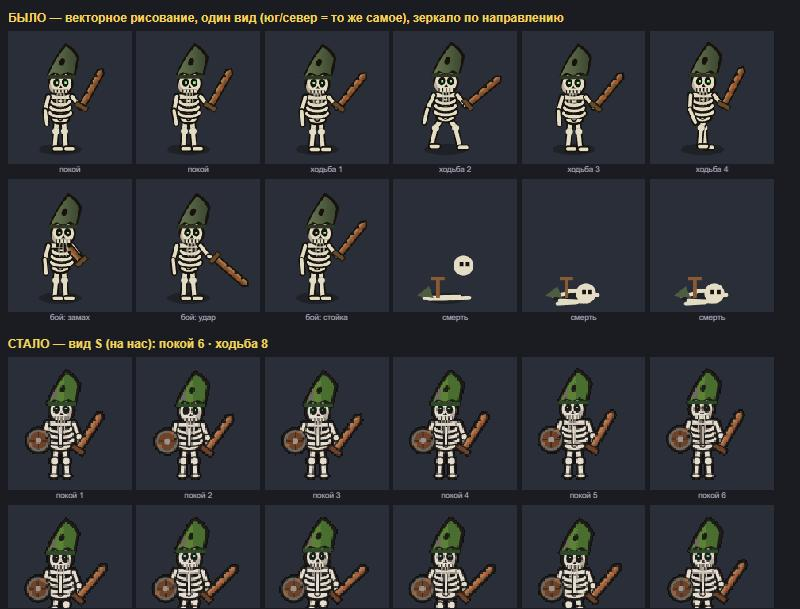
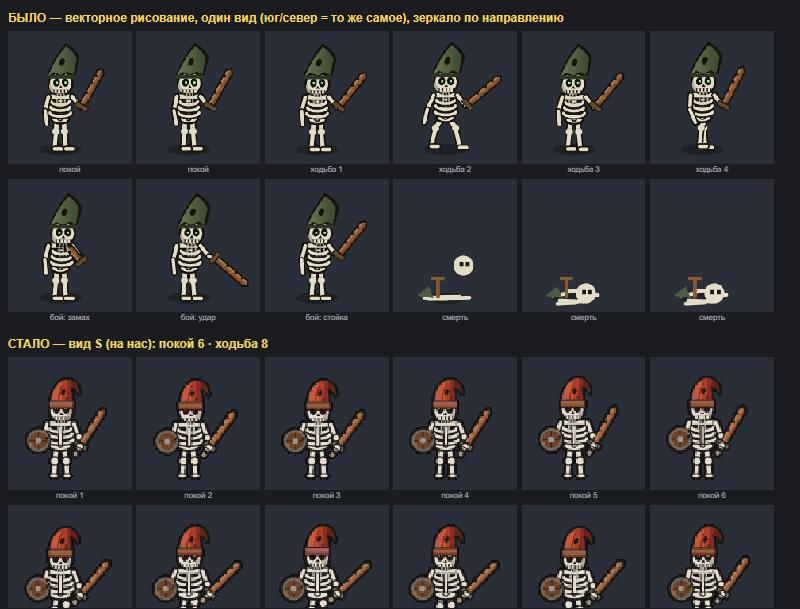
Скелеты: колпаки того же кроя, что у гномов; рукоять меча в ладони

diff --git a/js/world/skelart.js b/js/world/skelart.js
@@ -1,7 +1,7 @@
 'use strict';
 // Пиксель-арт скелетов: те же 4 вида (юг, восток, север; запад — зеркало), та же сверхвыборка и конвейер toPixelArt, что у гномов.
 // Кадры: покой 6, ходьба 8, атака 9, удар по нему 4, смерть 9, захват 9 + шаг с ношей 4 (КАДРЫ.md).
-// Кадры строятся лениво и лежат в кэше с вытеснением; внешность — 2 бита (цвет колпака, щит), считаются из дома скелета (ключи, не в сейве).
+// Кадры строятся лениво и лежат в кэше с вытеснением; внешность — 2 бита (цвет колпака (рыжий, охра), щит), считаются из дома скелета (ключи, не в сейве).
 // Рисует drawSkeleton (skeletons.js вызывает skelDraw отсюда); без этого файла остаётся старое векторное рисование.
 
 const SKA = { PS: 6, PART: 2, W: 52, H: 56, AX: 22, AY: 50, FR: { idle: 6, walk: 8, atk: 9, hit: 4, die: 9, grab: 13 }, ATK_DUR: 0.72, HIT_DUR: 0.2, DIE_DUR: 0.9, MAX: 700 };
@@ -9,7 +9,7 @@ const SKA = { PS: 6, PART: 2, W: 52, H: 56, AX: 22, AY: 50, FR: { idle: 6, walk:
 const SKA_C = {
   bone: '#e4ddd2', bone2: '#b6ada0', bone3: '#867e74', ink: '#1e1b19', flash: '#f6f2ea',
   rust: ['#c8946a', '#a06840', '#6e432a'], iron: ['#9e958a', '#706960', '#4a4540'], wood: ['#875434', '#6e432a', '#45291a'],
-  hat: [['#6c7a54', '#4a6e30', '#2f4a26'], ['#7a6a5a', '#583522', '#341f14']], eye: '#6fe0b4', eyeDim: '#2f8a6a',
+  hat: ['#b0463a', '#a08a3c'],             // выцветшие колпаки того же кроя, что у живых гномов: рыжий кирпич и охра eye: '#6fe0b4', eyeDim: '#2f8a6a',
 };
 const SKA_CACHE = new Map();
 let SKA_SCRATCH = null;
@@ -169,18 +169,64 @@ function skelPaint(c, look, view, pose, frame) {
   return eyes;
 }
 
+// колпак того же кроя, что у гномов (capShape в people.js): мягкий конус с кончиком набок, толстый подвёрнутый край, складки;
+// у скелета выцвел, с дырой и обтрёпанным краем
+function skelCapPath(c, hx, b, s, tall, alt) {
+  const X = k => hx + k * s;
+  c.beginPath(); c.moveTo(X(-4.3), b);
+  if (alt) {
+    c.quadraticCurveTo(X(-4.4), b - tall * 0.95, X(0.6), b - tall);
+    c.quadraticCurveTo(X(3.8), b - tall * 1.05, X(4.4), b - tall * 0.62);
+    c.quadraticCurveTo(X(3.2), b - tall * 0.7, X(3.3), b - tall * 0.45);
+    c.quadraticCurveTo(X(4.5), b - tall * 0.25, X(4.3), b);
+  } else {
+    c.quadraticCurveTo(X(-4.4), b - tall * 0.62, X(-0.8), b - tall * 0.88);
+    c.quadraticCurveTo(X(2.4), b - tall * 1.12, X(5.8), b - tall * 0.86);
+    c.quadraticCurveTo(X(7.4), b - tall * 0.72, X(7.4), b - tall * 0.42);
+    c.quadraticCurveTo(X(6.2), b - tall * 0.66, X(3.8), b - tall * 0.7);
+    c.quadraticCurveTo(X(4.6), b - tall * 0.34, X(4.3), b);
+  }
+  c.closePath();
+}
+function skelHat(c, view, hx, b, col, look, P) {
+  const e = view === 'E', s = e ? -1 : 1, tall = 10.8, alt = false, INK = SKA_C.ink;
+  const tip = P.hdx * 0.3;
+  c.save();
+  skelCapPath(c, hx + tip, b, s, tall, alt);
+  c.fillStyle = INK; c.lineWidth = 1.2; c.strokeStyle = INK; c.stroke();
+  const g = c.createLinearGradient(hx - 4.5, 0, hx + 5, 0); g.addColorStop(0, shade(col, 0.2)); g.addColorStop(0.5, col); g.addColorStop(1, shade(col, -0.4));
+  c.fillStyle = g; c.fill(); c.clip();
+  c.strokeStyle = shade(col, -0.35); c.lineWidth = 0.4;                                    // складки
+  c.beginPath(); c.moveTo(hx - 1.4 * s, b); c.quadraticCurveTo(hx - 1 * s, b - tall * 0.5, hx + 0.6 * s, b - tall * 0.8); c.stroke();
+  c.beginPath(); c.moveTo(hx + 2 * s, b); c.quadraticCurveTo(hx + 2.4 * s, b - tall * 0.3, hx + 3.2 * s, b - tall * 0.62); c.stroke();
+  c.fillStyle = INK; c.beginPath(); c.ellipse(hx + 0.8 * s, b - tall * 0.5, 0.9, 1.3, 0.4, 0, 7); c.fill();   // дыра
+  c.fillStyle = shade(col, -0.5); c.fillRect(hx + 2.4 * s - 0.5, b - tall * 0.3, 1.2, 0.8);                // заплата-пятно
+  c.restore();
+  // толстый подвёрнутый край, обтрёпанный
+  c.fillStyle = INK; c.beginPath(); c.rect(hx - 5.5, b - 1.9, 11, 3.8); c.fill();
+  const bg = c.createLinearGradient(0, b - 1.4, 0, b + 1.6); bg.addColorStop(0, shade(col, 0.15)); bg.addColorStop(1, shade(col, -0.35));
+  c.fillStyle = bg; c.beginPath(); c.moveTo(hx - 4.9, b - 1.4); c.lineTo(hx + 4.9, b - 1.4); c.lineTo(hx + 4.9, b + 1.2); for (let k = 0; k < 5; k++) { c.lineTo(hx + 4.9 - (k + 0.5) * 1.96, b + 1.9); c.lineTo(hx + 4.9 - (k + 1) * 1.96, b + 1.0); } c.closePath(); c.fill();
+}
+
 function skelSword(c, hx, hy, ang, look, view) {
-  const C = SKA_C, INK = C.ink;
-  c.save(); c.translate(hx, hy); c.rotate(ang);
+  const C = SKA_C, INK = C.ink, ca = Math.cos(ang), sa = Math.sin(ang);
+  c.save(); c.translate(hx + ca * 2.2, hy + sa * 2.2); c.rotate(ang);              // рукоять — в ладони: середина хвата ровно в кисти
   // клинок: ржавый, щербатый, в тёмной обводке
   c.fillStyle = INK; c.beginPath(); c.moveTo(-1.4, -1.7); c.lineTo(15.5, -1.9); c.lineTo(17.4, 0); c.lineTo(15.5, 1.9); c.lineTo(-1.4, 1.7); c.closePath(); c.fill();
   const rg = c.createLinearGradient(0, -1.4, 0, 1.4); rg.addColorStop(0, C.rust[0]); rg.addColorStop(0.5, C.rust[1]); rg.addColorStop(1, C.rust[2]);
   c.fillStyle = rg; c.beginPath(); c.moveTo(0, -1.1); c.lineTo(15, -1.2); c.lineTo(16.4, 0); c.lineTo(15, 1.2); c.lineTo(0, 1.1); c.closePath(); c.fill();
   c.fillStyle = INK; for (const x of [4, 8.4, 12]) { c.beginPath(); c.moveTo(x, -1.2); c.lineTo(x + 0.9, -0.2); c.lineTo(x + 1.8, -1.2); c.fill(); }
   c.fillStyle = '#c0501a'; for (const x of [3, 7, 11.5]) c.fillRect(x, 0.2, 1.3, 0.7);
-  c.fillStyle = INK; c.fillRect(-2.6, -3, 2.4, 6); c.fillStyle = C.wood[1]; c.fillRect(-2.2, -2.6, 1.6, 5.2);
+  c.fillStyle = INK; c.fillRect(-2.6, -3, 2.4, 6); c.fillStyle = C.iron[1]; c.fillRect(-2.2, -2.6, 1.6, 5.2);     // гарда
+  c.fillStyle = INK; c.fillRect(-5.4, -1.3, 3.4, 2.6); c.fillStyle = C.wood[1]; c.fillRect(-5, -0.9, 2.6, 1.8);   // рукоять
+  c.fillStyle = INK; c.beginPath(); c.arc(-5.6, 0, 1.6, 0, 7); c.fill(); c.fillStyle = C.iron[0]; c.beginPath(); c.arc(-5.6, 0, 1, 0, 7); c.fill();   // навершие
   c.restore();
+  // костяная ладонь поверх рукояти: пальцы обхватывают хват
+  c.fillStyle = INK; c.beginPath(); c.arc(hx, hy, 1.9, 0, 7); c.fill();
+  c.fillStyle = P_BONE; c.beginPath(); c.arc(hx, hy, 1.3, 0, 7); c.fill();
+  c.strokeStyle = INK; c.lineWidth = 0.5; c.beginPath(); c.moveTo(hx - sa * 1.2 - ca * 0.5, hy + ca * 1.2 - sa * 0.5); c.lineTo(hx + sa * 1.2 - ca * 0.5, hy - ca * 1.2 - sa * 0.5); c.stroke();
 }
+const P_BONE = SKA_C.bone;
 
 // круглый щит: wood + ржавый железный обод; edge — вид с ребра (E), иначе анфас с умбоном
 function skelShield(c, x, y, r, back) {
@@ -222,12 +268,7 @@ function skelHead(c, view, hx2, hy2, P, look, hatC) {
     c.strokeStyle = BONE2; c.lineWidth = 0.6; c.beginPath(); c.moveTo(hx2, hy2 - 3.4); c.lineTo(hx2 + 0.8, hy2 + 0.4); c.lineTo(hx2 - 0.4, hy2 + 3.4); c.stroke();
     c.fillStyle = BONE2; c.fillRect(hx2 - 2.6, hy2 + 3.2, 5.4, 1.2);
   }
-  // рваный гномий колпак, свисающий кончик с дырой
-  c.fillStyle = INK; c.beginPath(); c.moveTo(hx2 - 6.4, hy2 - 2.4); c.quadraticCurveTo(hx2 - 3, hy2 - 11, hx2 + 2, hy2 - 17); c.quadraticCurveTo(hx2 + 6.2, hy2 - 15, hx2 + 8, hy2 - 11); c.lineTo(hx2 + 6.2, hy2 - 3); c.lineTo(hx2 + 3, hy2 - 4.4); c.lineTo(hx2, hy2 - 2.8); c.lineTo(hx2 - 3, hy2 - 4.2); c.closePath(); c.fill();
-  const hg = c.createLinearGradient(hx2 - 6, 0, hx2 + 6, 0); hg.addColorStop(0, hatC[0]); hg.addColorStop(1, hatC[1]);
-  c.fillStyle = hg; c.beginPath(); c.moveTo(hx2 - 5.4, hy2 - 3); c.quadraticCurveTo(hx2 - 2.4, hy2 - 10.4, hx2 + 2.2, hy2 - 15.6); c.quadraticCurveTo(hx2 + 5.2, hy2 - 14, hx2 + 6.8, hy2 - 10.6); c.lineTo(hx2 + 5.4, hy2 - 3.8); c.lineTo(hx2 + 3, hy2 - 5); c.lineTo(hx2, hy2 - 3.6); c.lineTo(hx2 - 3, hy2 - 4.8); c.closePath(); c.fill();
-  c.fillStyle = INK; c.beginPath(); c.ellipse(hx2 + 0.6, hy2 - 9, 1.1, 1.6, 0.4, 0, 7); c.fill();                 // дыра в колпаке
-  c.fillStyle = hatC[2]; c.fillRect(hx2 - 6, hy2 - 3.6, 12.2, 1.6);                                              // обтрёпанный край
+  skelHat(c, view, hx2, hy2 - 2.3, hatC, look, P);
   // клочья бороды-паутины
   if (!back) {
     c.strokeStyle = 'rgba(206,198,186,0.8)'; c.lineWidth = 0.7;
@@ -247,7 +288,8 @@ function skelPile(c, look, p) {
   c.fillStyle = INK; c.beginPath(); c.arc(sx, sy, 5, 0, 7); c.fill();
   c.fillStyle = BONE; c.beginPath(); c.arc(sx, sy, 4.2, 0, 7); c.fill();
   c.fillStyle = INK; c.fillRect(sx - 1.6, sy - 1.4, 1.6, 1.8); c.fillRect(sx + 1, sy - 1.4, 1.6, 1.8);
-  c.fillStyle = C.hat[look & 1][1]; c.beginPath(); c.moveTo(-12, -1); c.lineTo(-7, -5 * q); c.lineTo(-5, 0); c.fill();
+  c.fillStyle = C.hat[look & 1]; c.beginPath(); c.moveTo(-12, -1); c.lineTo(-7, -5 * q); c.lineTo(-5, 0); c.fill();
+  c.fillStyle = shade(C.hat[look & 1], -0.4); c.fillRect(-11.5, -1.4, 6, 1.2);
   c.fillStyle = INK; c.fillRect(-4.6, -9.6 * q - 0.3, 2.6, 9.6 * q + 0.6); c.fillRect(-6.6, -9.6 * q - 0.3, 6.6, 2);
   c.fillStyle = C.rust[1]; c.fillRect(-4.2, -9.3 * q, 1.8, 9.3 * q); c.fillStyle = C.wood[1]; c.fillRect(-6.2, -9.3 * q, 5.8, 1.4);
 }

diff --git a/skeletons.html b/skeletons.html
@@ -8,7 +8,7 @@ h3{margin:12px 10px 2px;color:#f6d458}.row{display:flex;flex-wrap:wrap;gap:6px;p
 canvas{image-rendering:pixelated;background:#4a5a30}
 </style></head><body>
 <div id="bar"><b>Скелеты: было (вектор) и стало (пиксель-арт)</b><label>масштаб <select id="sc"><option>2</option><option selected>3</option><option>4</option></select></label>
-<label>облик <select id="lk"><option value="0">0 зелёный колпак</option><option value="1">1 бурый колпак</option><option value="2">2 зелёный + щит</option><option value="3">3 бурый + щит</option></select></label>
+<label>облик <select id="lk"><option value="0">0 рыжий колпак</option><option value="1">1 охристый колпак</option><option value="2">2 рыжий + щит</option><option value="3">3 охристый + щит</option></select></label>
 <label><input type="checkbox" id="gk"> фон с травой</label><span id="err" style="color:#f88"></span></div>
 <div id="out"></div>
 <script>function mulberry32(a){return function(){a|=0;a=a+0x6D2B79F5|0;let t=Math.imul(a^a>>>15,1|a);t=t+Math.imul(t^t>>>7,61|t)^t;return((t^t>>>14)>>>0)/4294967296}}</script><script src="js/config.js"></script><script src="js/sprites.js"></script><script src="js/pixel.js"></script>

diff --git a/js/changelog.js b/js/changelog.js
@@ -8,7 +8,7 @@ const CHANGELOG = [
     v: '0.11.11', date: '2026-10-22', title: 'Скелеты — в пиксель-арте',
     news: [
       'Скелеты нарисованы так же, как гномы и призраки: пиксельные, с обводкой и общей палитрой — больше не выбиваются из стиля',
-      'Скелеты поворачиваются лицом, боком и спиной по ходу движения; у части — ржавый щит, колпаки бывают зелёные и бурые',
+      'Скелеты поворачиваются лицом, боком и спиной по ходу движения; у части — ржавый щит, колпаки того же кроя, что у живых гномов, только выцветшие: рыжие и охристые',
       'Новые движения: кости покачиваются в покое, шагают, замахиваются и бьют ржавым мечом, вздрагивают от удара, рассыпаются грудой костей; в глазницах мерцают огоньки',
     ],
     fixes: [
